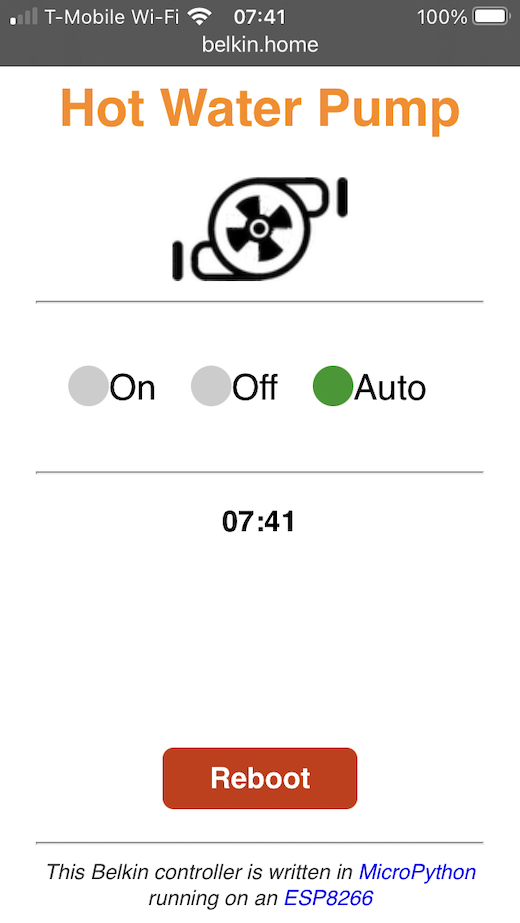
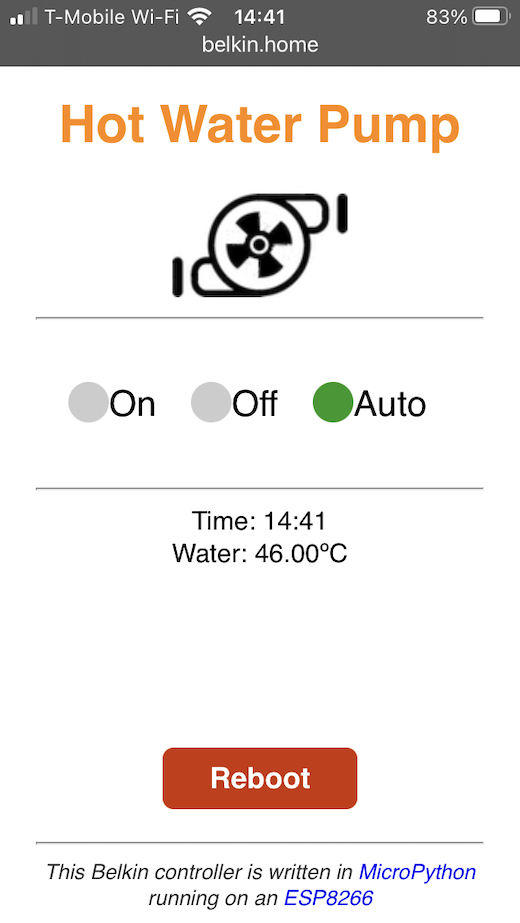
New images with the temperature sensor included

diff --git a/README.md b/README.md
@@ -18,6 +18,8 @@ minutes, just enough time to bring the hot water into the pipes.
 
 ![WeMo](misc/IMG_0851.JPG)
 
+This shows the Belkin Switch with the temperature sensor coming from the side
+
 <hr>
 
 This is the WeMo Switch with the ESP8266 D1 mini board installed.
